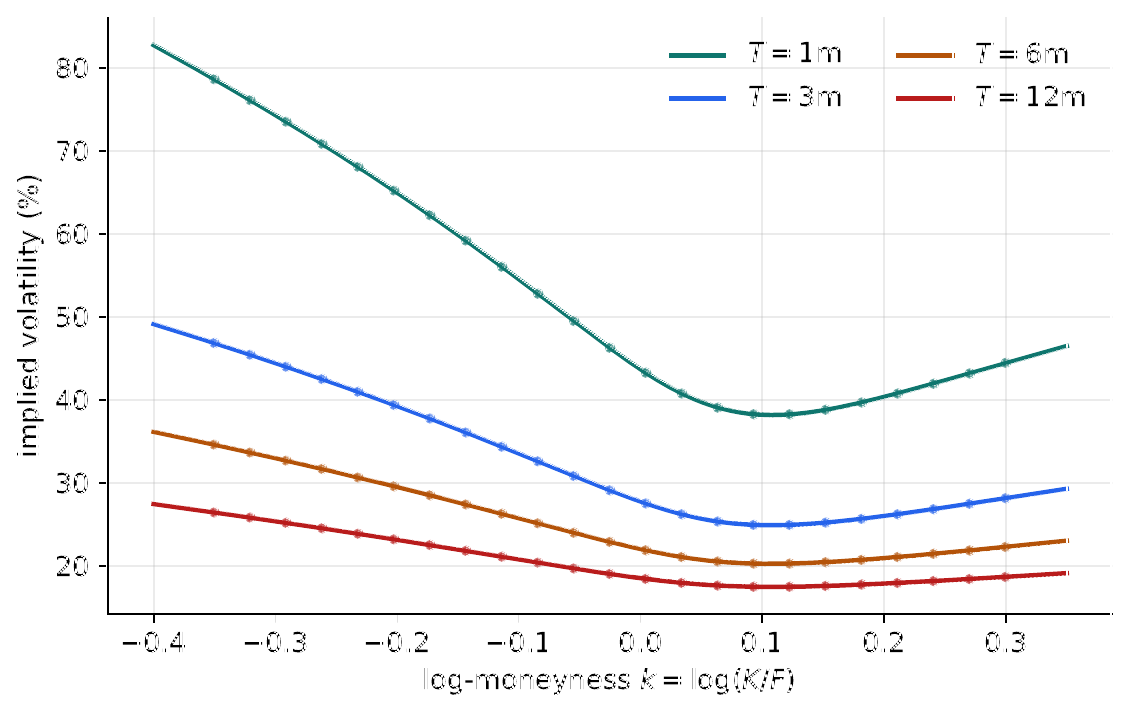
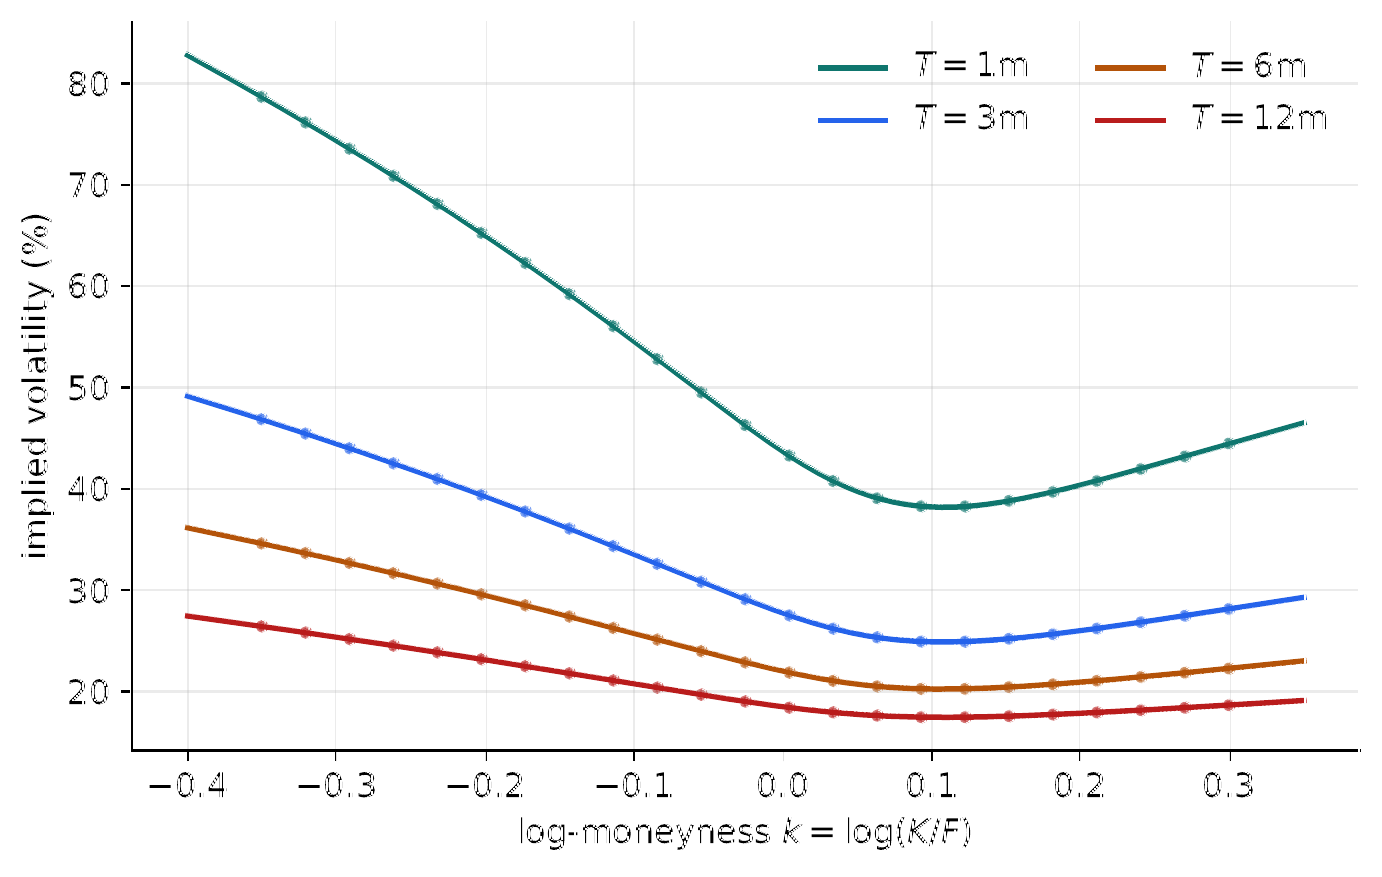
docs(notes): Note 00 calendar panel = stacked total variance, non-crossing
The figure's panel (c) was an ATM total-variance term structure - necessary
but nowhere near sufficient for calendar cleanliness, and stacked VOL smiles
carry no calendar content at all (sigma mixes w with the clock). Replaced by
the check in its correct coordinates: stacked total variance w(k,T), where
for forward-normalized (mean-one) slices no calendar arbitrage at fixed
log-moneyness is exactly the non-crossing ordering w(k,T_{i+1}) >= w(k,T_i)
at every k - the same view the app's Stacked IV tab draws.

The generator now asserts a positive minimum inter-expiry gap on the
displayed grid before writing the figure (measured 3.3e-3 on the reference
surface; the slices are fitted independently, so this is measurement -
enforcement is Note 10's coupling). fig_ov_termvar retired; both deck
structural-guarantee slides re-pointed and their captions now claim the
right thing.

diff --git a/Docs/deck/deck_exec_template.html b/Docs/deck/deck_exec_template.html
@@ -448,12 +448,12 @@
     <div>
       <div class="figrow">
         <div class="figcard"><img src="{{FIG:fig_ov_densities}}" alt="Stacked densities all non-negative"></div>
-        <div class="figcard"><img src="{{FIG:fig_ov_termvar}}" alt="ATM total variance non-decreasing"></div>
+        <div class="figcard"><img src="{{FIG:fig_ov_stackedvar}}" alt="Stacked total variance non-crossing"></div>
       </div>
-      <p class="shotcap"><span class="k">Regenerated on every build.</span> All implied densities
-        non-negative — no butterfly arbitrage, by construction. The ATM term-structure panel is a sanity check
-        (slices fitted independently there); full-strike calendar control is its own machinery (Note 10) —
-        produced end-to-end by the production calibrator.</p>
+      <p class="shotcap"><span class="k">Regenerated on every build.</span> Left — all implied densities
+        non-negative: no butterfly arbitrage, by construction. Right — stacked <em>total variance</em>, non-crossing
+        at every strike: the actual calendar-arbitrage check, in the same coordinates as the app's Stacked IV tab
+        (measured on independently fitted slices; enforcement is Note 10) — produced end-to-end by the production calibrator.</p>
     </div>
   </div>
   <div class="strip"><span class="lbl">Why it matters</span>

diff --git a/Docs/deck/deck_template.html b/Docs/deck/deck_template.html
@@ -1546,11 +1546,12 @@
     <div>
       <div class="figrow">
         <div class="figcard"><img src="{{FIG:fig_ov_densities}}" alt="Stacked densities all non-negative"></div>
-        <div class="figcard"><img src="{{FIG:fig_ov_termvar}}" alt="ATM total variance non-decreasing"></div>
+        <div class="figcard"><img src="{{FIG:fig_ov_stackedvar}}" alt="Stacked total variance non-crossing"></div>
       </div>
-      <p class="shotcap"><span class="k">Regenerated on every build.</span> All implied densities non-negative
-        — no butterfly arbitrage, by construction. The ATM term-structure panel is a sanity check (slices fitted independently
-        there); full-strike calendar control is its own machinery (Note 10) — produced end-to-end by the production
+      <p class="shotcap"><span class="k">Regenerated on every build.</span> Left — all implied densities non-negative:
+        no butterfly arbitrage, by construction. Right — stacked <em>total variance</em>, non-crossing at every strike:
+        the actual calendar-arbitrage check, in the same coordinates as the app's Stacked IV tab (measured here on
+        independently fitted slices; the enforcement coupling is Note 10) — produced end-to-end by the production
         calibrator on the notes' reference surface.</p>
     </div>
   </div>

diff --git a/Docs/notes/figures/gen_overview.py b/Docs/notes/figures/gen_overview.py
@@ -4,12 +4,12 @@ Builds a small synthetic but calendar-monotone SVI surface (four expiries),
 fits a production LQD slice to each, and renders three panels that illustrate
 the app's structural guarantees end to end:
 
-  fig_ov_smiles.pdf     four fitted smiles vs log-moneyness
-  fig_ov_termvar.pdf    ATM total-variance term structure (sanity check only:
-                        the slices are fitted INDEPENDENTLY here, so this is
-                        not a calendar-arbitrage demonstration — that needs
-                        w-ordering at every strike, Note 10)
-  fig_ov_densities.pdf  stacked risk-neutral densities (all >= 0)
+  fig_ov_smiles.pdf      four fitted smiles vs log-moneyness
+  fig_ov_stackedvar.pdf  stacked total variance, non-crossing at every k —
+                         THE calendar-arbitrage check (the app's Stacked IV
+                         tab); measured on independently fitted slices and
+                         asserted, enforcement itself is Note 10
+  fig_ov_densities.pdf   stacked risk-neutral densities (all >= 0)
 
 Run from the repo root with the project venv.
 """
@@ -24,7 +24,6 @@ matplotlib.use("Agg")
 import matplotlib.pyplot as plt
 import numpy as np
 
-from volfit.models.lqd.atm import atm_handles
 from volfit.models.lqd.calibrate import calibrate_slice
 
 OUT = Path(__file__).resolve().parent
@@ -79,16 +78,33 @@ def main():
     fig.savefig(OUT / "fig_ov_smiles.pdf")
     plt.close(fig)
 
-    # --- ATM total-variance term structure
+    # --- stacked TOTAL VARIANCE: the actual calendar-arbitrage check.
+    # For forward-normalized (mean-one) slices, no calendar arbitrage at fixed
+    # log-moneyness k is EXACTLY w(k, T_{i+1}) >= w(k, T_i) for every k — the
+    # curves must not cross (the app's Stacked IV tab shows this same view).
+    # Stacked IV smiles carry no calendar content (sigma mixes w and the
+    # clock), and ATM-only monotonicity is necessary but far from sufficient.
+    # The slices here are fitted INDEPENDENTLY, so the dominance is measured,
+    # not enforced (enforcement is Note 10's coupling); assert it holds on
+    # the displayed grid before writing the figure.
+    kk = np.linspace(-0.40, 0.35, 400)
+    w_curves = [res.slice.implied_w(kk) for (_, _, _, res) in fits]
+    min_gap = min(float(np.min(hi - lo))
+                  for lo, hi in zip(w_curves[:-1], w_curves[1:]))
+    assert min_gap > 0.0, (
+        f"fitted slices cross in total variance: min gap = {min_gap:.2e}"
+    )
     fig, ax = plt.subplots(figsize=(7.2, 3.6))
-    ts = [t for t, *_ in fits]
-    w0 = [atm_handles(res.slice, t).w0 for (t, _, _, res) in fits]
-    ax.plot(ts, w0, "-o", color="#0f766e")
-    ax.set_xlabel(r"expiry $T$ (years)")
-    ax.set_ylabel(r"ATM total variance $w_0=\sigma_0^2 T$")
-    ax.set_title("ATM sanity check: non-decreasing in $T$ (slices fitted independently)", fontsize=10)
-    fig.savefig(OUT / "fig_ov_termvar.pdf")
+    for (t, *_), wc, c in zip(fits, w_curves, COLORS):
+        ax.plot(kk, wc, color=c, label=fr"$T={t*12:.0f}$m")
+    ax.set_xlabel(r"log-moneyness $k=\log(K/F_T)$")
+    ax.set_ylabel(r"total variance $w(k,T)$")
+    ax.set_title("Stacked total variance: non-crossing at every $k$"
+                 " (no calendar arbitrage on the displayed grid)", fontsize=10)
+    ax.legend(frameon=False, ncol=2)
+    fig.savefig(OUT / "fig_ov_stackedvar.pdf")
     plt.close(fig)
+    print(f"stacked-variance min inter-expiry gap: {min_gap:.2e}")
 
     # --- stacked densities
     fig, ax = plt.subplots()

diff --git a/Docs/notes/00_system_overview.tex b/Docs/notes/00_system_overview.tex
@@ -125,14 +125,21 @@ existing fit is kept, marked stale, and waits for an explicit Calibrate.
 \end{enumerate}
 \end{invariant}
 
-\Cref{fig:guarantees} shows the per-slice structural guarantee on a four-expiry
-synthetic surface fitted by the production LQD calibrator: every implied density
-is non-negative --- no butterfly arbitrage, by construction. Panel~(c) is an
-\emph{ATM term-structure sanity check}, not a calendar-arbitrage demonstration:
-the four slices here are fitted independently, and calendar freedom requires the
-total-variance ordering $w(k,T_2)\ge w(k,T_1)$ at \emph{every} relevant strike,
-not only ATM. That cross-expiry coupling is what the calendar machinery of
-Note~10 enforces (as a data-confined soft floor) and measures on full grids.
+\Cref{fig:guarantees} shows the two static-arbitrage checks, each in its
+correct coordinates, on a four-expiry synthetic surface fitted by the
+production LQD calibrator. Panel~(b) is the \emph{butterfly} check: every
+implied density is non-negative, by construction. Panel~(c) is the
+\emph{calendar} check: stacked \emph{total variance} $w(k,T)$, where for
+forward-normalized (mean-one) slices absence of calendar arbitrage at fixed
+log-moneyness is exactly the non-crossing ordering $w(k,T_{i+1})\ge w(k,T_i)$
+at \emph{every} $k$ --- the same view the app's Stacked IV tab draws. Two
+tempting substitutes are not checks at all: stacked \emph{vol} smiles carry
+no calendar content ($\sigma$ mixes $w$ with the clock, so clean surfaces
+cross freely in vol), and ATM-only monotonicity is necessary but far from
+sufficient. The four slices here are fitted independently, so the displayed
+dominance is \emph{measured} --- the generator asserts a positive minimum
+inter-expiry gap on the displayed grid before writing the figure --- not
+enforced; the enforcement coupling is Note~10's calendar machinery.
 
 \begin{figure}[H]
 \centering
@@ -146,13 +153,15 @@ Note~10 enforces (as a data-confined soft floor) and measures on full grids.
 \end{minipage}
 \\[6pt]
 \begin{minipage}{0.62\textwidth}\centering
-\includegraphics[width=\textwidth]{fig_ov_termvar.pdf}\\[2pt]
-{\footnotesize (c) ATM total-variance term-structure sanity check}
+\includegraphics[width=\textwidth]{fig_ov_stackedvar.pdf}\\[2pt]
+{\footnotesize (c) Stacked total variance: non-crossing at every $k$}
 \end{minipage}
-\caption{The per-slice no-butterfly guarantee, produced end to end by the
-production LQD fitter on a synthetic calendar-monotone surface (panels a, b),
-plus an ATM term-structure sanity check on independently fitted slices
-(panel c). Full-strike calendar-arbitrage control is Note~10's subject.}
+\caption{The two static-arbitrage checks, produced end to end by the
+production LQD fitter on a synthetic calendar-monotone surface. Panels a, b:
+the fits and their non-negative densities (no butterfly arbitrage, by
+construction). Panel c: stacked total variance, non-crossing at every
+displayed $k$ (no calendar arbitrage there --- measured on independently
+fitted slices; enforcement is Note~10's coupling).}
 \label{fig:guarantees}
 \end{figure}
 
@@ -535,8 +544,9 @@ per-handle updates; caps do not police cross-gains & 15\\
 \section{How the notes are organized}
 \label{sec:org}
 
-The topic notes, 01--15, are standalone and follow a common skeleton, codified
-in \texttt{Docs/notes/STYLE\_GUIDE.md}: an opening that states the
+The topic notes, 01--15, are standalone and follow a common skeleton,
+codified in the series style guide
+(\texttt{Docs/notes/STYLE\_GUIDE.md}): an opening that states the
 \emph{production problem} and the \emph{invariants} being protected (the
 amber box near the top of every note), a theorem-shaped body whose central
 object gets the note's single boxed equation, a worked example or